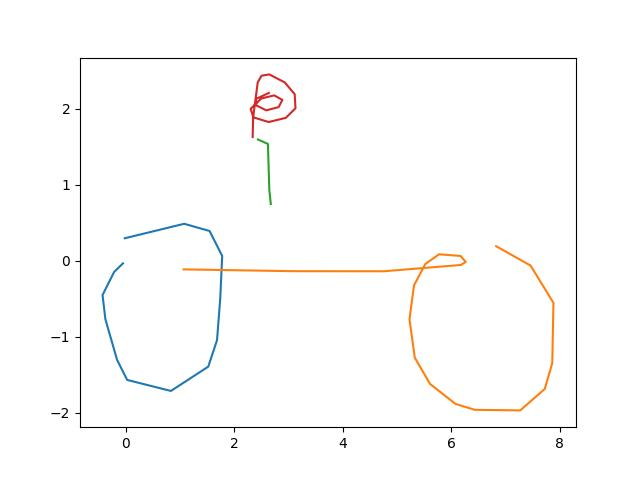
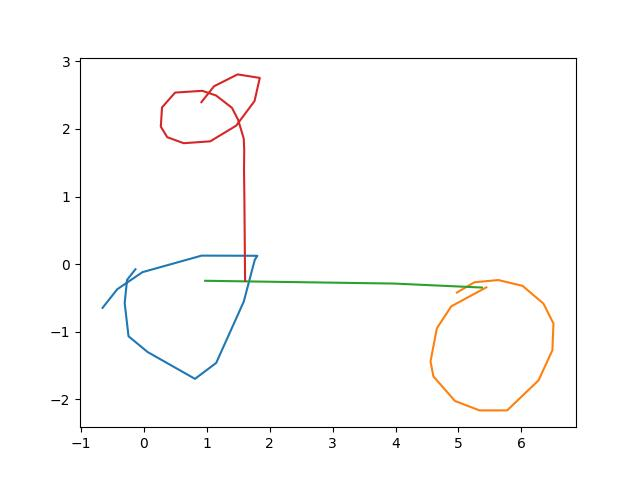
apply new bicycle result

diff --git a/README.md b/README.md
@@ -5,11 +5,11 @@ In order to draw other things than cats, you will find more drawing data here: h
 
 bicycle:
 
-![](images/bicycle/output_uncond_epoch_40000_0_strokes_8.jpg)
+![](images/bicycle/output_uncond_epoch_40000_0_strokes_4.jpg)
 ![](images/bicycle/output_uncond_epoch_40000_1_strokes_4.jpg)
-![](images/bicycle/output_uncond_epoch_40000_2_strokes_6.jpg)
-![](images/bicycle/output_uncond_epoch_40000_3_strokes_6.jpg)
-![](images/bicycle/output_uncond_epoch_40000_4_strokes_6.jpg)
+![](images/bicycle/output_uncond_epoch_40000_2_strokes_5.jpg)
+![](images/bicycle/output_uncond_epoch_40000_3_strokes_4.jpg)
+![](images/bicycle/output_uncond_epoch_40000_4_strokes_4.jpg)
 
 butterfly:
 
